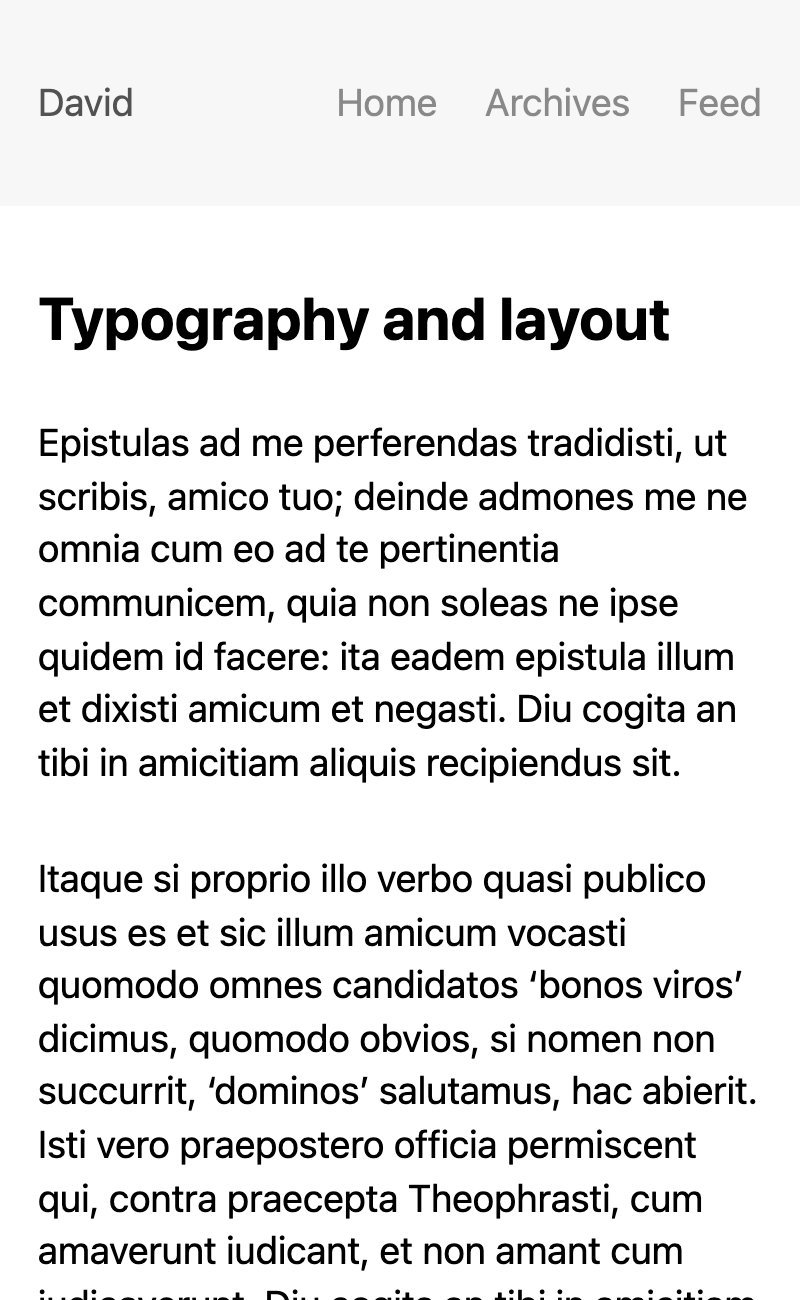
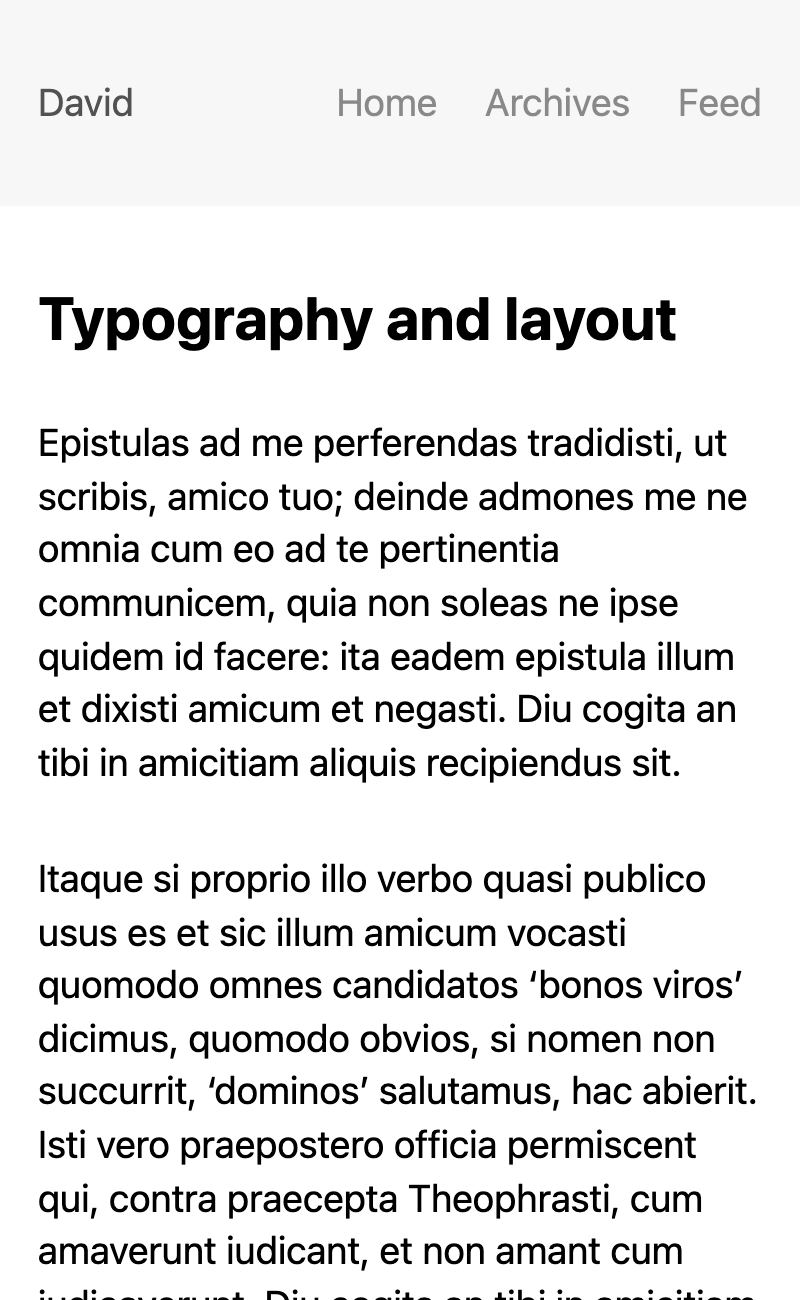
Expose Text template settings as dashboard controls

Changed region(s): [[0.0938, 0.2154, 0.8438, 0.2769]]

diff --git a/app/templates/source/text/style.css b/app/templates/source/text/style.css
@@ -3,16 +3,18 @@
 
 /* Inserts the @font-face rules required to load whichever fonts are selected. */
 {{{font.styles}}}
+{{{heading_font.styles}}}
+{{{navigation_font.styles}}}
 {{{syntax_highlighter_font.styles}}}
 {{{syntax_highlighter.styles}}}
 
 :root {
   --sidebar-width: 0px;
   {{#is.navigation_location.left}}
-  --sidebar-width: 300px;
+  --sidebar-width: {{navigation_width}}px;
   {{/is.navigation_location.left}}
   {{#is.navigation_location.right}}
-  --sidebar-width: 300px;
+  --sidebar-width: {{navigation_width}}px;
   {{/is.navigation_location.right}}
 }
 
@@ -66,13 +68,45 @@ header > a {
 }
 
 header {
+  {{#navigation_font}}
+  font-family: {{{stack}}};
+  font-size: {{{font_size}}}px;
+  line-height: {{{line_height}}};
+  height: {{{line_height}}}em;
+  {{/navigation_font}}
+  {{^navigation_font}}
   height: {{font.line_height}}em;
+  {{/navigation_font}}
   overflow: hidden;
   display: flex;
   flex-wrap: wrap;
   justify-content: space-between;
+  {{#is.navigation_alignment.left}}
+  justify-content: flex-start;
+  {{/is.navigation_alignment.left}}
+  {{#is.navigation_alignment.right}}
+  justify-content: flex-end;
+  {{/is.navigation_alignment.right}}
+  {{#is.navigation_alignment.center}}
+  justify-content: center;
+  {{/is.navigation_alignment.center}}
   position: relative;
   padding: calc({{spacing}}rem/2) calc({{spacing}}rem);
+}
+
+.site-title {
+  display: inline-flex;
+  align-items: center;
+  gap: 0.4em;
+  {{#heading_font}}
+  font-family: {{{stack}}};
+  {{/heading_font}}
+}
+
+.site-logo {
+  height: 1.2em;
+  width: auto;
+  vertical-align: middle;
 }
 
 
@@ -109,6 +143,9 @@ nav {
   position: relative;
   {{#collapse_navigation_by_default}}
   width: 100%;
+  {{#is.navigation_alignment.left}}text-align: left;{{/is.navigation_alignment.left}}
+  {{#is.navigation_alignment.right}}text-align: right;{{/is.navigation_alignment.right}}
+  {{#is.navigation_alignment.center}}text-align: center;{{/is.navigation_alignment.center}}
   {{/collapse_navigation_by_default}}
 }
 
@@ -209,10 +246,20 @@ nav a:not([href]) {
   justify-content: flex-start;
   gap: calc({{spacing}}rem/2);
   padding: 0;
+  {{#is.navigation_alignment.right}}
+  align-items: flex-end;
+  {{/is.navigation_alignment.right}}
+  {{#is.navigation_alignment.center}}
+  align-items: center;
+  {{/is.navigation_alignment.center}}
 }
 
 .navigation-location-right header {
+  {{^is.navigation_alignment.left}}
+  {{^is.navigation_alignment.center}}
   align-items: flex-end;
+  {{/is.navigation_alignment.center}}
+  {{/is.navigation_alignment.left}}
 }
 
 .navigation-location-left header > a,
@@ -238,10 +285,20 @@ nav a:not([href]) {
   width: 100%;
   background: none;
   padding: 0;
+  {{#is.navigation_alignment.right}}
+  align-items: flex-end;
+  {{/is.navigation_alignment.right}}
+  {{#is.navigation_alignment.center}}
+  align-items: center;
+  {{/is.navigation_alignment.center}}
 }
 
 .navigation-location-right nav {
+  {{^is.navigation_alignment.left}}
+  {{^is.navigation_alignment.center}}
   align-items: flex-end;
+  {{/is.navigation_alignment.center}}
+  {{/is.navigation_alignment.left}}
 }
 
 .navigation-location-left nav .spacer,
@@ -297,7 +354,14 @@ nav a:not([href]) {
   .navigation-location-right header {
     flex-direction: row;
     align-items: center;
+    {{#navigation_font}}
+    font-size: {{{font_size}}}px;
+    line-height: {{{line_height}}};
+    height: {{{line_height}}}em;
+    {{/navigation_font}}
+    {{^navigation_font}}
     height: {{font.line_height}}em;
+    {{/navigation_font}}
     justify-content: space-between;
     padding: calc({{spacing}}rem/2) calc({{spacing}}rem);
   }
@@ -370,12 +434,16 @@ nav a:not([href]) {
 #hidden-toggle:checked~header nav {
   width: 100%;
   padding: 2em 0;
+  {{#is.navigation_alignment.left}}text-align: left;{{/is.navigation_alignment.left}}
+  {{#is.navigation_alignment.right}}text-align: right;{{/is.navigation_alignment.right}}
+  {{#is.navigation_alignment.center}}text-align: center;{{/is.navigation_alignment.center}}
 }
 
 #hidden-toggle:checked~header nav a {
   display: block;
   margin-left: 0;
   padding: 0.5em 0;
+  text-align: inherit;
 }
 
 #hidden-toggle:checked~header .hamburger-inner:after {
@@ -505,7 +573,11 @@ border-radius: 4px;padding:0.75em 1.25em;font-size:0.9em}
 
 .wide {
     width: calc(100vw - var(--scrollbar-width) - var(--sidebar-width) - 2em);
-    margin-left: calc((100vw - var(--scrollbar-width) - var(--sidebar-width) - {{max_width}}px) * -0.5);
+    /* Centre within the space left of the sidebar. min() keeps the pull-out
+       from turning into a positive (rightward) margin when the configured
+       max-width is wider than the viewport minus the sidebar, which would
+       otherwise push wide content off the right edge. */
+    margin-left: min(-2em, calc((100vw - var(--scrollbar-width) - var(--sidebar-width) - {{max_width}}px) * -0.5));
     margin-right: 0;
 }
 
@@ -519,7 +591,7 @@ border-radius: 4px;padding:0.75em 1.25em;font-size:0.9em}
 
 .wide.left, .wide.right {
   width: calc(100vw - var(--scrollbar-width) - var(--sidebar-width) - 2em);
-  margin-left: calc((100vw - var(--scrollbar-width) - var(--sidebar-width) - {{max_width}}px) * -0.5);
+  margin-left: min(-2em, calc((100vw - var(--scrollbar-width) - var(--sidebar-width) - {{max_width}}px) * -0.5));
   margin-right: -25%;
   float: none;
   overflow: auto; /* collapse internal margins */
@@ -567,9 +639,16 @@ p, li {
   widows: 2;
 }
 
-h1 {font-size: 1.5625em;line-height: 36px;font-weight: bold;margin-bottom: 24px;text-wrap:balance}
+h1, h2, h3, h4, h5, h6 {
+  {{#heading_font}}
+  font-family: {{{stack}}};
+  line-height: {{{line_height}}};
+  {{/heading_font}}
+}
 
-h2, h3, h4, h5, h6 {font-size: 1.0625em;font-weight: bold;line-height: 24px;margin: 48px 0 24px;text-wrap:balance}
+h1 {font-size: 1.5625em;line-height: 36px;font-weight: bold;margin-bottom: 24px;text-wrap:balance;{{#heading_font}}font-size: {{{font_size}}}px;line-height: {{{line_height}}};{{/heading_font}}}
+
+h2, h3, h4, h5, h6 {font-size: 1.0625em;font-weight: bold;line-height: 24px;margin: 48px 0 24px;text-wrap:balance;{{#heading_font}}line-height: {{{line_height}}};{{/heading_font}}}
 
 blockquote {
   padding: 0 0 0 12px;
@@ -631,7 +710,7 @@ code {
   font-family: {{{syntax_highlighter_font.stack}}};
   margin: 0;
   font-size: 0.85em;
-  background: rgba(0,0,0,.03);
+  background: rgba({{#rgb}}{{text_color}}{{/rgb}},.03);
   border-radius: 3px;
   line-height: 24px;
 }
@@ -651,7 +730,7 @@ pre code {
 pre code {
   display: block;padding: 12px 18px;
   margin: 0 0 0 0;
-  background-color: rgba(0,0,0,.02);
+  background-color: rgba({{#rgb}}{{text_color}}{{/rgb}},.02);
 }
 
 /* TABLES */

diff --git a/app/templates/source/text/_head.html b/app/templates/source/text/_head.html
@@ -12,7 +12,8 @@
   {{^entry}}<meta name="description" content="{{> description}}">{{/entry}}
 
   <link rel="alternate" type="application/rss+xml" title="RSS Feed for {{title}}" href="{{{siteURL}}}{{{feedURL}}}">
-  {{#avatar}}<link rel="icon" href="{{{avatar}}}" type="image/x-icon">{{/avatar}}
+  {{#favicon_url}}<link rel="icon" href="{{{favicon_url}}}" type="image/x-icon">{{/favicon_url}}
+  {{^favicon_url}}{{#avatar}}<link rel="icon" href="{{{avatar}}}" type="image/x-icon">{{/avatar}}{{/favicon_url}}
   <link rel="preconnect" href="{{{cdn}}}" />
   <link rel="stylesheet" href="{{#cdn}}/style.css{{/cdn}}">
 

diff --git a/app/templates/source/text/_header.html b/app/templates/source/text/_header.html
@@ -2,7 +2,7 @@
   <div class="container">
 <input type="checkbox" name="hidden-toggle" id="hidden-toggle">
 <header>
-  <a href="/">{{title}}</a>
+  <a href="/" class="site-title">{{#logo_url}}<img src="{{{logo_url}}}" alt="" class="site-logo">{{/logo_url}}{{title}}</a>
   <label id="toggle" for="hidden-toggle">
     <span class="hamburger-box">
           <span class="hamburger-inner"></span>
